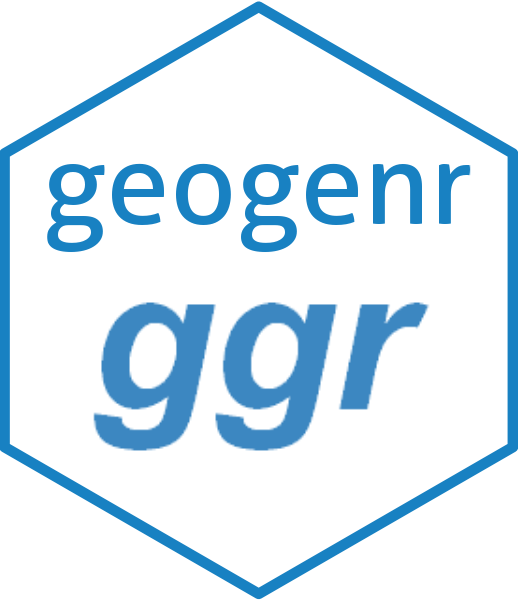
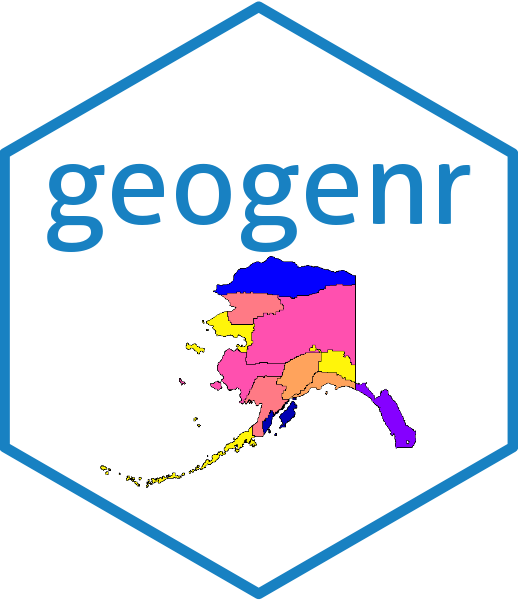
Star03 (#6)
* cph

* readme and logo

* readme

Changed region(s): [[0.1544, 0.42, 0.834, 0.81], [0.1853, 0.78, 0.2162, 0.81]]

diff --git a/NEWS.md b/NEWS.md
@@ -1,4 +1,6 @@
 # geogenr (development version)
+* Modify the cph field of the description.
+* Include logo on website.
 
 # geogenr 2.0.0
 * New data model.
